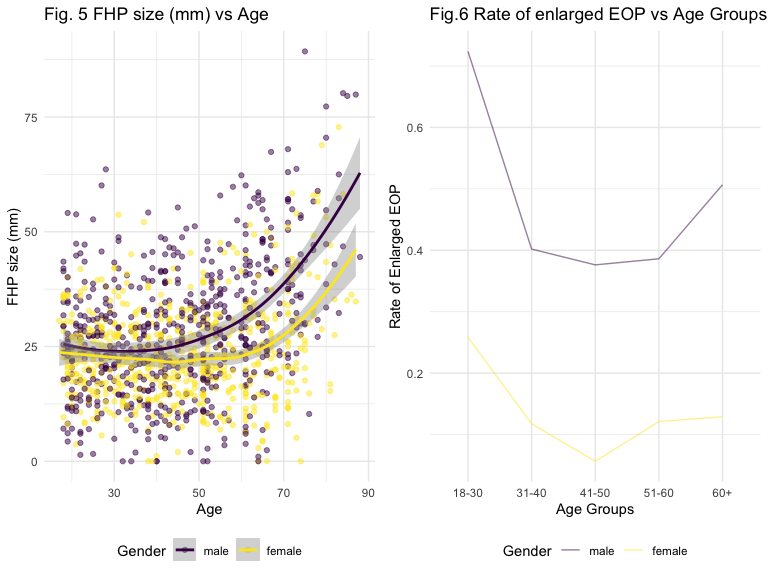
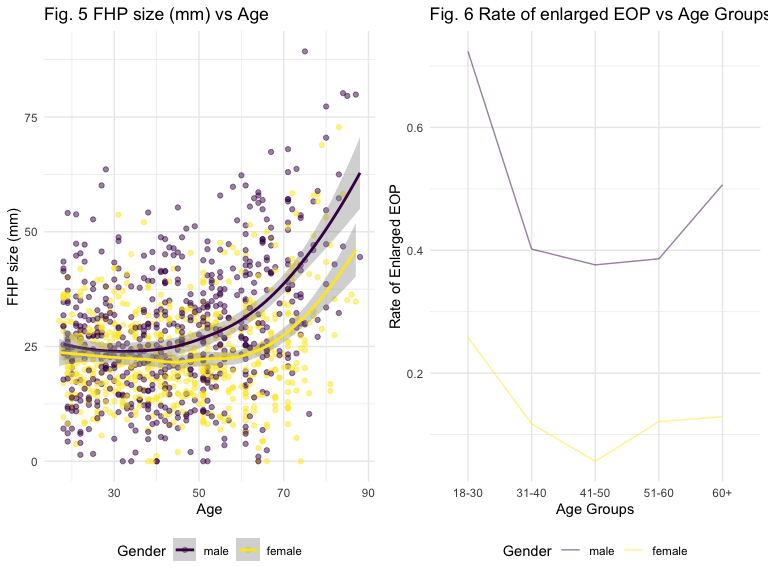
Final draft

Changed region(s): [[0.5938, 0.0, 1.0, 0.0625]]

diff --git a/p8105_mtp_sl4662.md b/p8105_mtp_sl4662.md
@@ -107,7 +107,7 @@ Number of participants in each group is evenly distrubutted.
 eop1 = 
 mtp_data %>%
   ggplot(aes(x = eop_size, y = eop_size_mm, color = sex)) + 
-    geom_point(alpha = 0.8) + 
+    geom_point(alpha = 0.5) + 
     labs(
     color = "Gender",
     title = "Fig.3 EOP Size (mm) vs EOP Size Category",
@@ -117,7 +117,7 @@ mtp_data %>%
 eop2 = 
 mtp_data %>%
   ggplot(aes(x = eop_visibility_classification, y = eop_size_mm, color = sex)) + 
-    geom_point(alpha = 0.8) + 
+    geom_point(alpha = 0.5) + 
     labs(
     color = "Gender",
     title = "Fig.4 EOP Size (mm) vs Visibility Classification",
@@ -128,7 +128,7 @@ mtp_data %>%
 fhp = 
 mtp_data %>%
   ggplot(aes(x = fhp_category, y = fhp_size_mm, color = sex)) + 
-    geom_point(alpha = 0.8) + 
+    geom_point(alpha = 0.5) + 
     scale_y_continuous(
       breaks = c(0, 10, 20, 30, 40, 50, 60, 70, 80, 90)) +
     labs(
@@ -141,12 +141,12 @@ mtp_data %>%
 age = 
 mtp_data %>%
   ggplot(aes(x = age_group, y = age, color = sex)) + 
-    geom_point(alpha = 0.8) + 
+    geom_point(alpha = 0.5) + 
     labs(
     color = "Gender",
     title = "Fig.1 Age vs Age Group Category",
     x = "Age Group Category",
-    y = "Age") +
+    y = "Continuous Age") +
   theme(axis.text.x = element_text(angle = 45))
   
 (age + fhp) / (eop1 + eop2)
@@ -158,14 +158,14 @@ In Fig.1, there are two observations that’re categorized in the wrong
 age group. Such small error in age group would not make an impact on the
 overall statistics.
 
-In Fig.2 and Fig. 3, multiple observations, mostly males, in groups EOP
-size (10-25mm) and FHP size (40-50mm) are misplaced.
+In Fig. 2 and Fig. 3, multiple observations, mostly males, in groups EOP
+size (20-25mm) and FHP size (40-50mm) are misplaced.
 
-In Fig.4, most observations in these two groups are misplaced and making
-conclusion based on in EOP size 0 mm and EOP size 0-5 mm group will give
-wrong results.
+In Fig. 4, most observations in these two groups are misplaced and
+making conclusion based on in EOP size 0 mm and EOP size 0-5 mm group
+will give wrong results.
 
-## Replot Fig.3, 4 From Origanal Paper
+## Replot Fig. 3, 4 From Original Paper
 
 ``` r
 fhp_p = 
@@ -200,7 +200,7 @@ ggplot(data = gender_enlarge, aes(x = age_group, y = enlarge_rate, color = sex))
   geom_line(aes(group = sex), alpha = .5) + 
   labs(
     color = "Gender",
-    title = "Fig.6 Rate of enlarged EOP vs Age Groups",
+    title = "Fig. 6 Rate of enlarged EOP vs Age Groups",
     x = "Age Groups",
     y = "Rate of Enlarged EOP")
 
